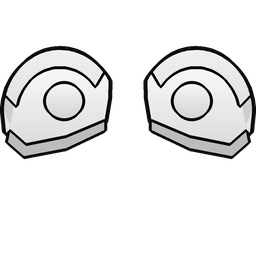
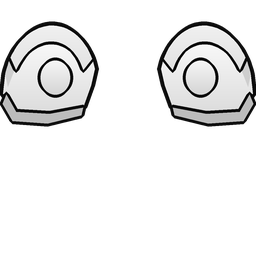
Bulwark v2: pauldrons raised, spread and tilted outward
Claude-Session: https://claude.ai/code/session_01GM4XsNt8FF8EEgy8oUJDKj

Changed region(s): [[0.5312, 0.0625, 1.0, 0.625], [0.0, 0.0625, 0.4688, 0.625]]

diff --git a/Source/Art/v2/bulwark.py b/Source/Art/v2/bulwark.py
@@ -15,6 +15,14 @@ B.plate(B.poly([(46,62),(122,72),(122,150),(78,156),(42,128)]),255,226,mirror=Tr
 B.plate(B.poly([(118,66),(138,66),(136,150),(128,158),(120,150)]),212)        # centre ridge (ends under the helmet)
 # ---------------- SHOULDERS: one stylised pauldron per side, no arm plates below
 S=Layer()
+SX,SY=0.82,-16                     # pauldron placement: narrower toward the helmet, raised
+_poly,_ell=S.poly,S.ell
+TILT=np.radians(14); PX,PY=96,110        # tilt: outer edge rises, pivoting near the inner corner
+def _tf(x,y):
+    x,y=x-PX,y-PY; x,y=x*np.cos(TILT)-y*np.sin(TILT),x*np.sin(TILT)+y*np.cos(TILT); x,y=x+PX,y+PY
+    return 2+(x-2)*SX, y+SY
+S.poly=lambda pts:_poly([_tf(x,y) for x,y in pts])
+S.ell=lambda x0,y0,x1,y1:(lambda c0,c1:_ell(c0[0]-(x1-x0)*SX/2,c0[1]-(y1-y0)/2,c0[0]+(x1-x0)*SX/2,c0[1]+(y1-y0)/2))(_tf((x0+x1)/2,(y0+y1)/2),None)
 def arc(cx,cy,rx,ry,a0,a1,n=40):
     return [(cx+rx*np.cos(t),cy+ry*np.sin(t)) for t in np.linspace(np.radians(a0),np.radians(a1),n)]
 shell=arc(60,112,56,62,180,330)+[(108,98),(104,122),(66,138),(26,146),(6,132)]   # domed top, flared angled lower edge
